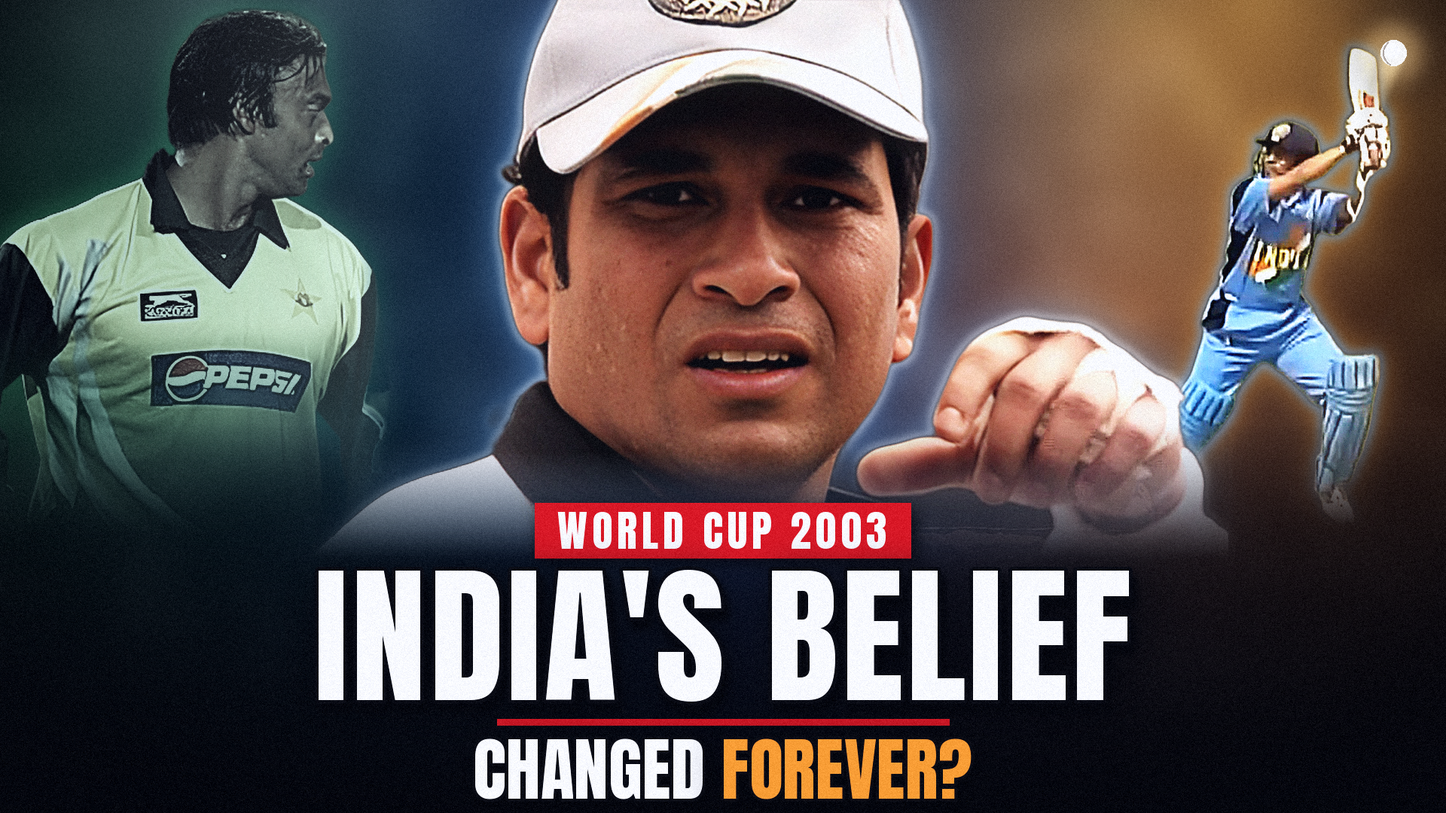
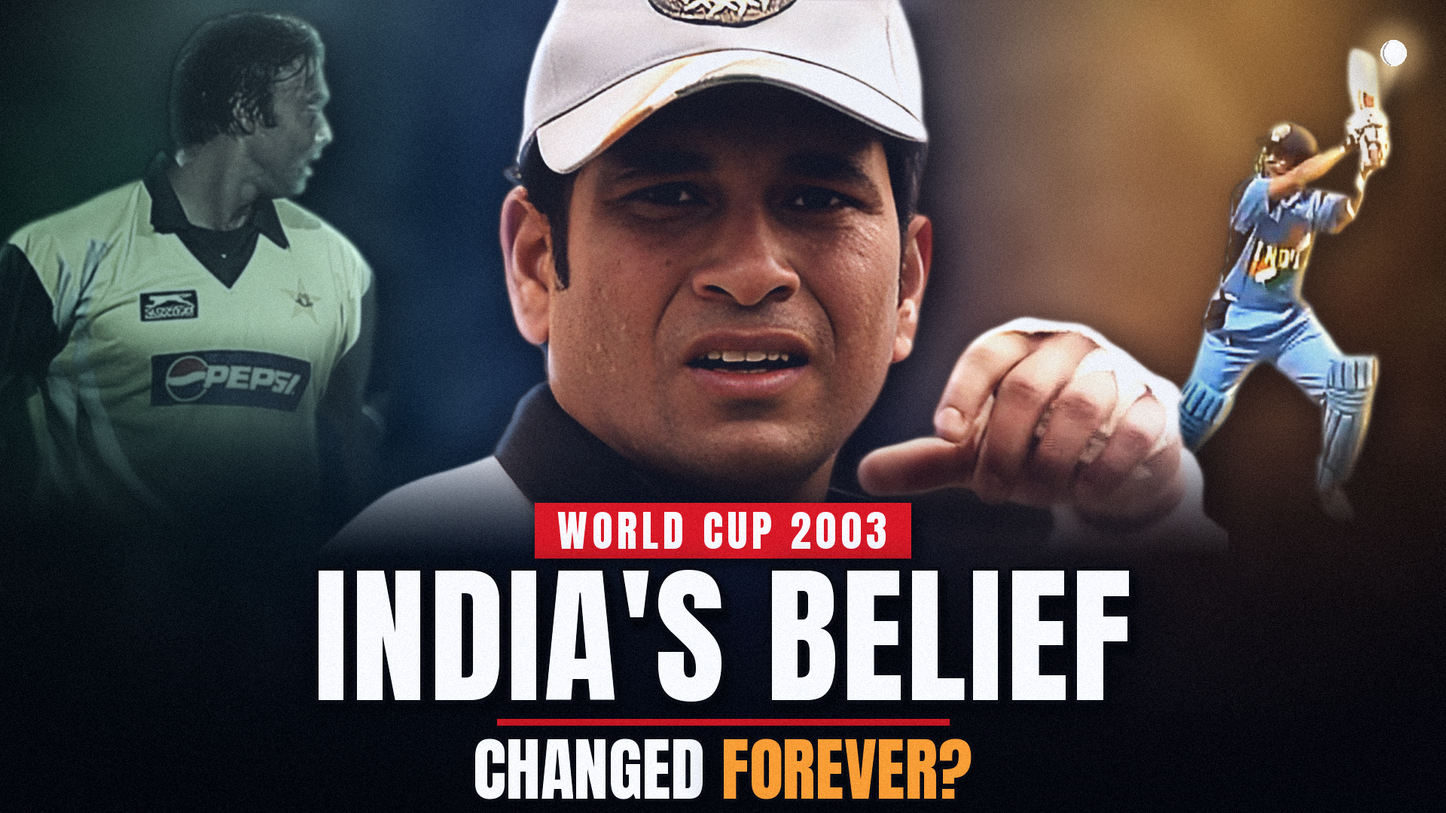
Composite thumbnail cut-outs into the scene instead of outlining them
Replace the glow/outline rims with defringed mattes, scene-matched shadows and
haze, light wrap, a directional edge light and a soft contact shadow, so the
players sit in the floodlit stadium rather than on top of it.

Claude-Session: https://claude.ai/code/session_01SQh72PYSr2UGL5osbLDTTd

diff --git a/doc_video/thumb/thumb_wc2003.py b/doc_video/thumb/thumb_wc2003.py
@@ -101,14 +101,6 @@ def directional_light(im, side, color, strength):
     return img(a, "RGBA")
 
 
-def rim(im, color, spread, strength, grow=7):
-    a = im.getchannel("A")
-    edge = Image.fromarray(np.clip(arr(a.filter(ImageFilter.MaxFilter(grow))) - arr(a) * 0.6, 0, 255).astype(np.uint8))
-    glow = Image.new("RGBA", im.size, color + (0,))
-    glow.putalpha(edge.filter(ImageFilter.GaussianBlur(spread)).point(lambda v: int(min(255, v * strength))))
-    return glow
-
-
 def pad(im, p):
     out = Image.new("RGBA", (im.width + 2 * p, im.height + 2 * p), (0, 0, 0, 0))
     out.alpha_composite(im, (p, p))
@@ -125,12 +117,59 @@ def fade_bottom(im, start, end):
     return out
 
 
-def place(base, im, x, y, rims=()):
-    p = 60
-    big = pad(im, p)
-    for color, spread, strength in rims:
-        base.alpha_composite(rim(big, color, spread, strength), (x - p, y - p))
-    base.alpha_composite(im, (x, y))
+def place(base, im, x, y, depth=0.0, haze=0.0, wrap=0.55, rim_color=None, rim_side=1, rim_k=0.0, shadow=0.55):
+    """Composite a cut-out into the scene instead of pasting it on top.
+
+    Defringes the matte (pulls edge colour from the subject's interior so the source photo's
+    background doesn't cling to it), matches its blacks/haze to the scene, drops a soft contact
+    shadow, wraps the blurred scene light around the edges, and adds a directional edge light on
+    the side facing the key light (rim_side 1 = from the right, -1 = from the left).
+    """
+    a = arr(im.getchannel("A")) / 255
+    rgb = arr(im.convert("RGB"))
+    core = arr(im.getchannel("A").filter(ImageFilter.MinFilter(7))) / 255
+    num = np.stack([arr(img(rgb[..., c] * core, "L").filter(ImageFilter.GaussianBlur(6))) for c in range(3)], -1)
+    den = arr(img(core * 255, "L").filter(ImageFilter.GaussianBlur(6)))[..., None] / 255 + 1e-4
+    inner = np.clip(num / den, 0, 255)
+    band = np.clip(1 - core, 0, 1)[..., None] * (den > 0.02)
+    rgb = rgb * (1 - band) + inner * band
+    a = arr(img(a * 255, "L").filter(ImageFilter.MinFilter(3)).filter(ImageFilter.GaussianBlur(1.1 + depth))) / 255
+
+    # scene under the subject (for colour match and light wrap)
+    x0, y0, x1, y1 = max(0, x), max(0, y), min(W, x + im.width), min(H, y + im.height)
+    scene = np.zeros_like(rgb)
+    blur_bg = arr(base.convert("RGB").filter(ImageFilter.GaussianBlur(30)))
+    scene[y0 - y:y1 - y, x0 - x:x1 - x] = blur_bg[y0:y1, x0:x1]
+    mean = scene[a > 0.5].mean(0) if (a > 0.5).any() else np.zeros(3)
+
+    if depth:
+        rgb = arr(img(rgb).filter(ImageFilter.GaussianBlur(depth)))
+    lum = rgb.mean(-1, keepdims=True) / 255
+    rgb = rgb + (mean * 0.9 - rgb) * (1 - lum) ** 2 * 0.35  # shadows take the scene's colour
+    rgb = rgb * 0.94 + mean * 0.06
+    rgb = rgb * (1 - haze) + scene * haze  # atmospheric depth for set-back figures
+
+    # light wrap: the scene's blurred light bleeds over the inside of the edge
+    soft = arr(img(a * 255, "L").filter(ImageFilter.GaussianBlur(16))) / 255
+    wrapm = np.clip((a - soft) * 2.2, 0, 1)[..., None] * wrap
+    rgb = rgb + (255 - rgb) * (scene / 255) * wrapm
+
+    # directional edge light on the side facing the key light
+    if rim_color and rim_k:
+        sh = np.roll(a, -rim_side * 10, axis=1)
+        rimm = np.clip(a - sh, 0, 1)
+        rimm = arr(img(rimm * 255, "L").filter(ImageFilter.GaussianBlur(4))) / 255 * a
+        rgb = rgb + (np.array(rim_color, np.float32) - rgb * 0.3) * rimm[..., None] * rim_k
+
+    if shadow:
+        sa = img(a * 255 * shadow, "L").filter(ImageFilter.GaussianBlur(28))
+        sl = Image.new("RGBA", im.size, (0, 0, 0, 0))
+        sl.putalpha(sa)
+        p = 40
+        base.alpha_composite(pad(sl, p).filter(ImageFilter.GaussianBlur(10)), (x - p + 14, y - p + 18))
+
+    out = np.dstack([np.clip(rgb, 0, 255), a * 255])
+    base.alpha_composite(img(out, "RGBA"), (x, y))
 
 
 def shadow_text(base, txt, size, cx, top, fill, stroke=6, shadow=26, tracking=0):
@@ -218,7 +257,7 @@ def main():
     sh = regrade(sh, color=0.32, contrast=1.3, bright=0.85, tint=(60, 130, 90), tint_k=0.3)
     sh = directional_light(sh, "right", (225, 240, 230), 0.9)
     sh = fade_bottom(sh, 500, 720)
-    place(base, sh, -170, -40, rims=[((80, 170, 120), 16, 0.7)])
+    place(base, sh, -170, -40, depth=1.2, haze=0.12, rim_color=(190, 235, 205), rim_side=1, rim_k=0.35)
 
     # RIGHT - the upper-cut: warm saffron/gold key, electric-blue rim
     up = load_cut("cut_wc_sachin_uppercut.png", 700)
@@ -226,7 +265,7 @@ def main():
     up = directional_light(up, "right", SAFFRON, 0.9)
     up = fade_bottom(up, 560, 700)
     ux, uy = W - up.width - 120, 48
-    place(base, up, ux, uy, rims=[(GOLD, 20, 1.0), ((90, 170, 255), 6, 0.9)])
+    place(base, up, ux, uy, depth=0.8, haze=0.06, rim_color=GOLD, rim_side=1, rim_k=0.55)
     # ball flies off the top of the bat toward the upper-right corner
     ball_with_trail(base, W - 92, 74, ux + up.width - 40, uy + 150)
 
@@ -237,7 +276,7 @@ def main():
     hero = fade_bottom(hero, 560, 840)
     face_cx = int(hero.width * 0.55)
     hx, hy = 960 - face_cx, 70
-    place(base, hero, hx, hy, rims=[(ICE, 26, 1.1), ((255, 255, 255), 5, 0.8)])
+    place(base, hero, hx, hy, wrap=0.45, rim_color=ICE, rim_side=-1, rim_k=0.4, shadow=0.75)
     # soft key on the face to lift the helmet shadow, limited to the hero's own pixels
     hero_a = Image.new("L", (W, H), 0)
     hero_a.paste(hero.getchannel("A"), (hx, hy))
@@ -280,7 +319,7 @@ def main_hq():
     sh = regrade(sh, color=0.3, contrast=1.3, bright=0.8, sharpen=(2, 90, 2), tint=(60, 130, 90), tint_k=0.3)
     sh = directional_light(sh, "right", (225, 240, 230), 0.9)
     sh = fade_bottom(sh, 420, 700)
-    place(base, sh, -140, 10, rims=[((80, 170, 120), 16, 0.7)])
+    place(base, sh, -140, 10, depth=1.2, haze=0.12, rim_color=(190, 235, 205), rim_side=1, rim_k=0.35)
 
     # RIGHT - the upper-cut
     up = load_cut("cut_wc_sachin_uppercut.png", 640)
@@ -288,7 +327,7 @@ def main_hq():
     up = directional_light(up, "right", SAFFRON, 0.9)
     up = fade_bottom(up, 500, 640)
     ux, uy = W - up.width - 70, 60
-    place(base, up, ux, uy, rims=[(GOLD, 20, 1.0), ((90, 170, 255), 6, 0.9)])
+    place(base, up, ux, uy, depth=0.8, haze=0.06, rim_color=GOLD, rim_side=1, rim_k=0.55)
     ball_with_trail(base, W - 70, 70, ux + up.width - 40, uy + 140)
 
     # CENTRE - the hero close-up
@@ -297,7 +336,7 @@ def main_hq():
     hero = directional_light(hero, "left", (255, 214, 170), 0.45)
     hero = fade_bottom(hero, 600, 740)
     hx, hy = 960 - int(hero.width * 0.48), 0
-    place(base, hero, hx, hy, rims=[(ICE, 26, 1.1), ((255, 255, 255), 5, 0.8)])
+    place(base, hero, hx, hy, wrap=0.45, rim_color=ICE, rim_side=-1, rim_k=0.4, shadow=0.75)
 
     headline(base)
     finish(base, "thumb_E_wc2003_belief_hq")
